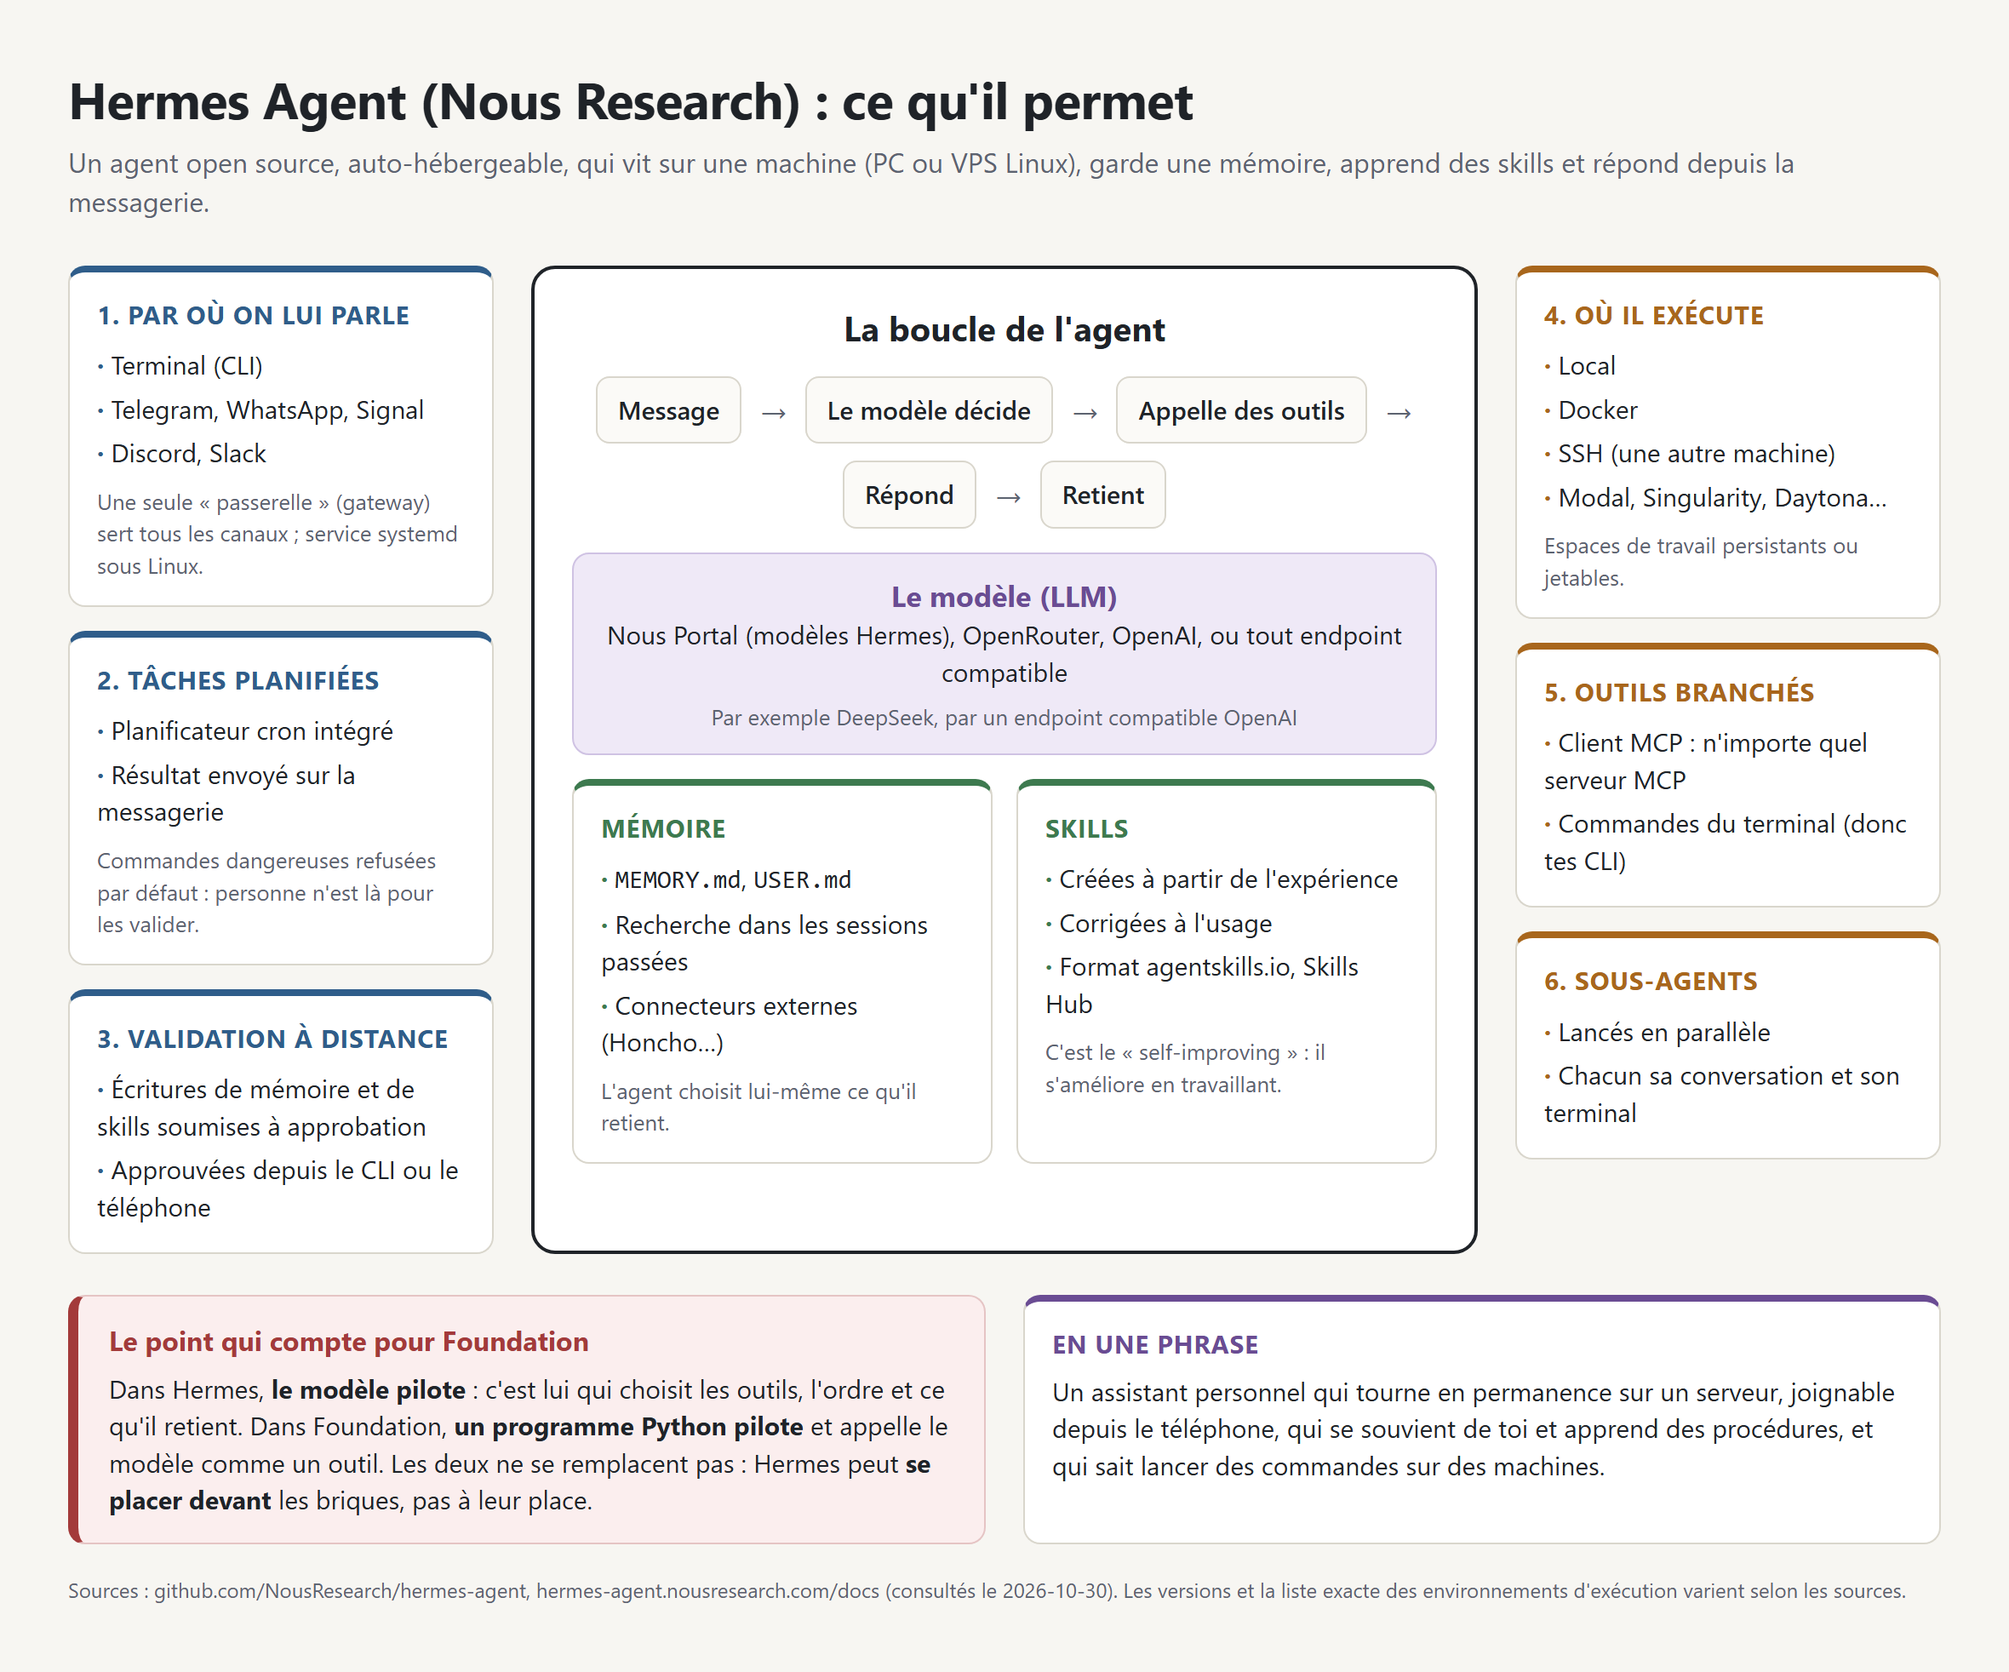
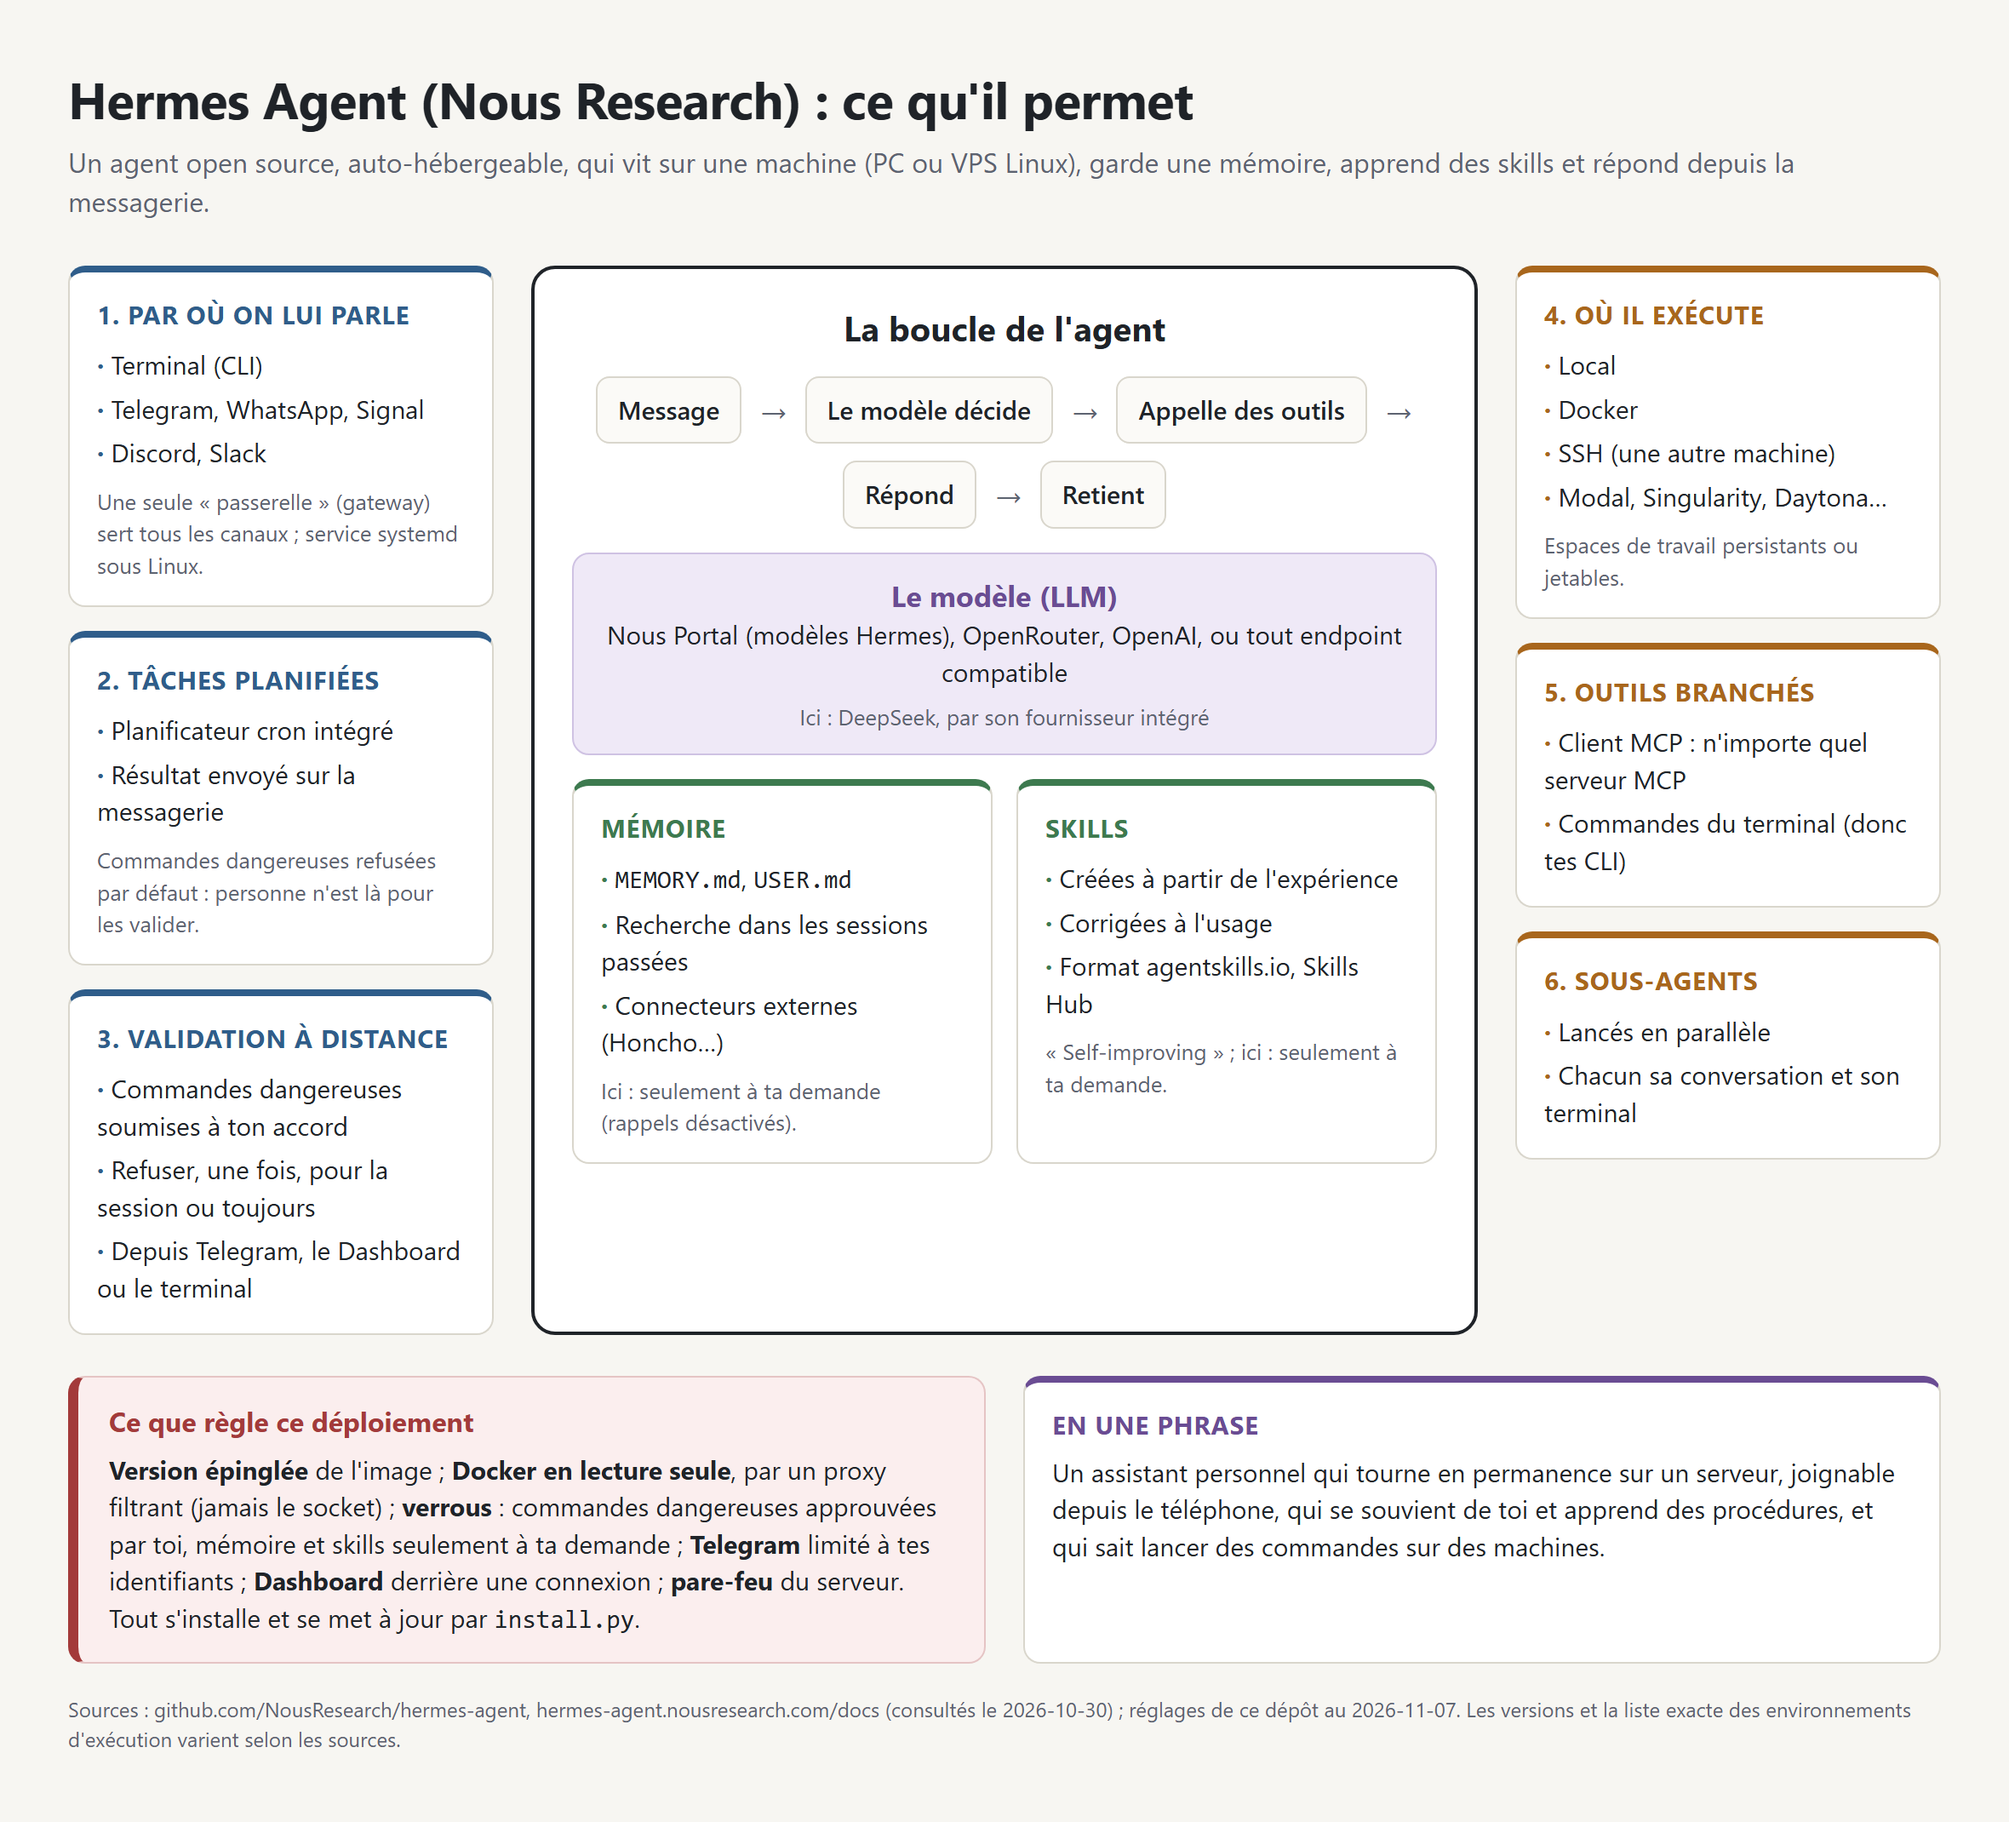
docs: planche de Hermes corrigee et adaptee au deploiement, affichee dans le README

Changed region(s): [[0.0309, 0.0311, 0.9589, 0.9628], [0.2784, 0.1553, 0.7114, 0.6833], [0.3093, 0.2174, 0.3712, 0.2485]]

diff --git a/docs/hermes-agent.html b/docs/hermes-agent.html
@@ -67,8 +67,9 @@
       <div class="carte" style="--c:var(--bleu)">
         <h3>3. Validation à distance</h3>
         <ul>
-          <li>Écritures de mémoire et de skills soumises à approbation</li>
-          <li>Approuvées depuis le CLI ou le téléphone</li>
+          <li>Commandes dangereuses soumises à ton accord</li>
+          <li>Refuser, une fois, pour la session ou toujours</li>
+          <li>Depuis Telegram, le Dashboard ou le terminal</li>
         </ul>
       </div>
     </div>
@@ -86,7 +87,7 @@
       <div class="llm">
         <b>Le modèle (LLM)</b><br>
         Nous Portal (modèles Hermes), OpenRouter, OpenAI, ou tout endpoint compatible
-        <div class="petit">Par exemple DeepSeek, par un endpoint compatible OpenAI</div>
+        <div class="petit">Ici : DeepSeek, par son fournisseur intégré</div>
       </div>
       <div class="duo">
         <div class="carte" style="--c:var(--vert)">
@@ -96,7 +97,7 @@
             <li>Recherche dans les sessions passées</li>
             <li>Connecteurs externes (Honcho…)</li>
           </ul>
-          <p class="petit">L'agent choisit lui-même ce qu'il retient.</p>
+          <p class="petit">Ici : seulement à ta demande (rappels désactivés).</p>
         </div>
         <div class="carte" style="--c:var(--vert)">
           <h3>Skills</h3>
@@ -105,7 +106,7 @@
             <li>Corrigées à l'usage</li>
             <li>Format agentskills.io, Skills Hub</li>
           </ul>
-          <p class="petit">C'est le « self-improving » : il s'améliore en travaillant.</p>
+          <p class="petit">« Self-improving » ; ici : seulement à ta demande.</p>
         </div>
       </div>
     </div>
@@ -141,10 +142,11 @@
 
   <div class="bas">
     <div class="cle">
-      <h3>Le point qui compte pour Foundation</h3>
-      Dans Hermes, <b>le modèle pilote</b> : c'est lui qui choisit les outils, l'ordre et ce qu'il retient.
-      Dans Foundation, <b>un programme Python pilote</b> et appelle le modèle comme un outil.
-      Les deux ne se remplacent pas : Hermes peut <b>se placer devant</b> les briques, pas à leur place.
+      <h3>Ce que règle ce déploiement</h3>
+      <b>Version épinglée</b> de l'image ; <b>Docker en lecture seule</b>, par un proxy filtrant (jamais le socket) ;
+      <b>verrous</b> : commandes dangereuses approuvées par toi, mémoire et skills seulement à ta demande ;
+      <b>Telegram</b> limité à tes identifiants ; <b>Dashboard</b> derrière une connexion ; <b>pare-feu</b> du serveur.
+      Tout s'installe et se met à jour par <code>install.py</code>.
     </div>
     <div class="carte" style="--c:var(--violet)">
       <h3>En une phrase</h3>
@@ -152,7 +154,7 @@
       qui se souvient de toi et apprend des procédures, et qui sait lancer des commandes sur des machines.
     </div>
   </div>
-  <p class="src">Sources : github.com/NousResearch/hermes-agent, hermes-agent.nousresearch.com/docs (consultés le 2026-10-30).
+  <p class="src">Sources : github.com/NousResearch/hermes-agent, hermes-agent.nousresearch.com/docs (consultés le 2026-10-30) ; réglages de ce dépôt au 2026-11-07.
      Les versions et la liste exacte des environnements d'exécution varient selon les sources.</p>
 </body>
 </html>

diff --git a/README.md b/README.md
@@ -12,6 +12,10 @@ Hermes est un agent IA développé par NousResearch. Il s'appuie sur les grands 
 - une **Gateway API** compatible OpenAI pour l'intégrer à n'importe quel client (Open WebUI, applications mobiles, Discord, Telegram…)
 - plus de **20 plateformes de messagerie** supportées nativement
 
+![Hermes Agent : ce qu'il permet, et ce que règle ce déploiement](docs/hermes-agent.png)
+
+> Planche générée depuis [docs/hermes-agent.html](docs/hermes-agent.html) : modifier le HTML, puis régénérer le PNG.
+
 ---
 
 ## Ce que fait ce dépôt
